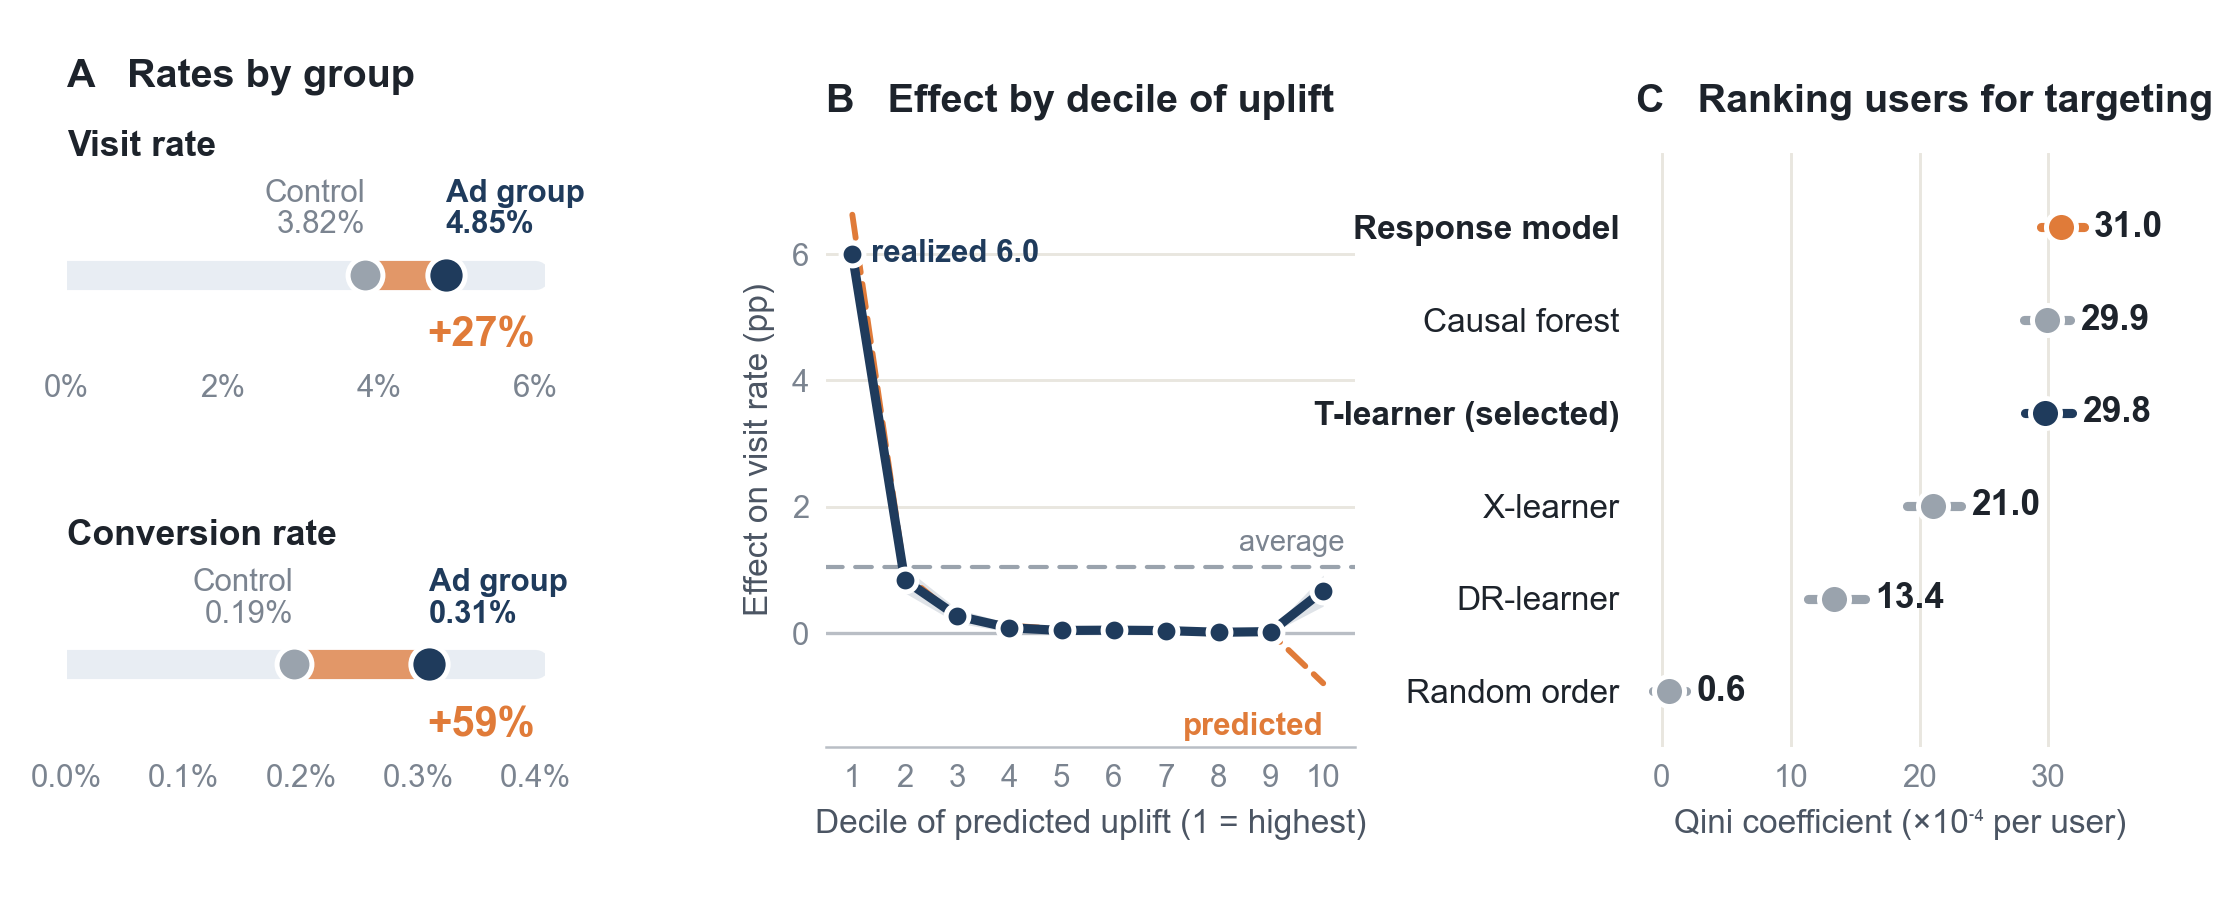
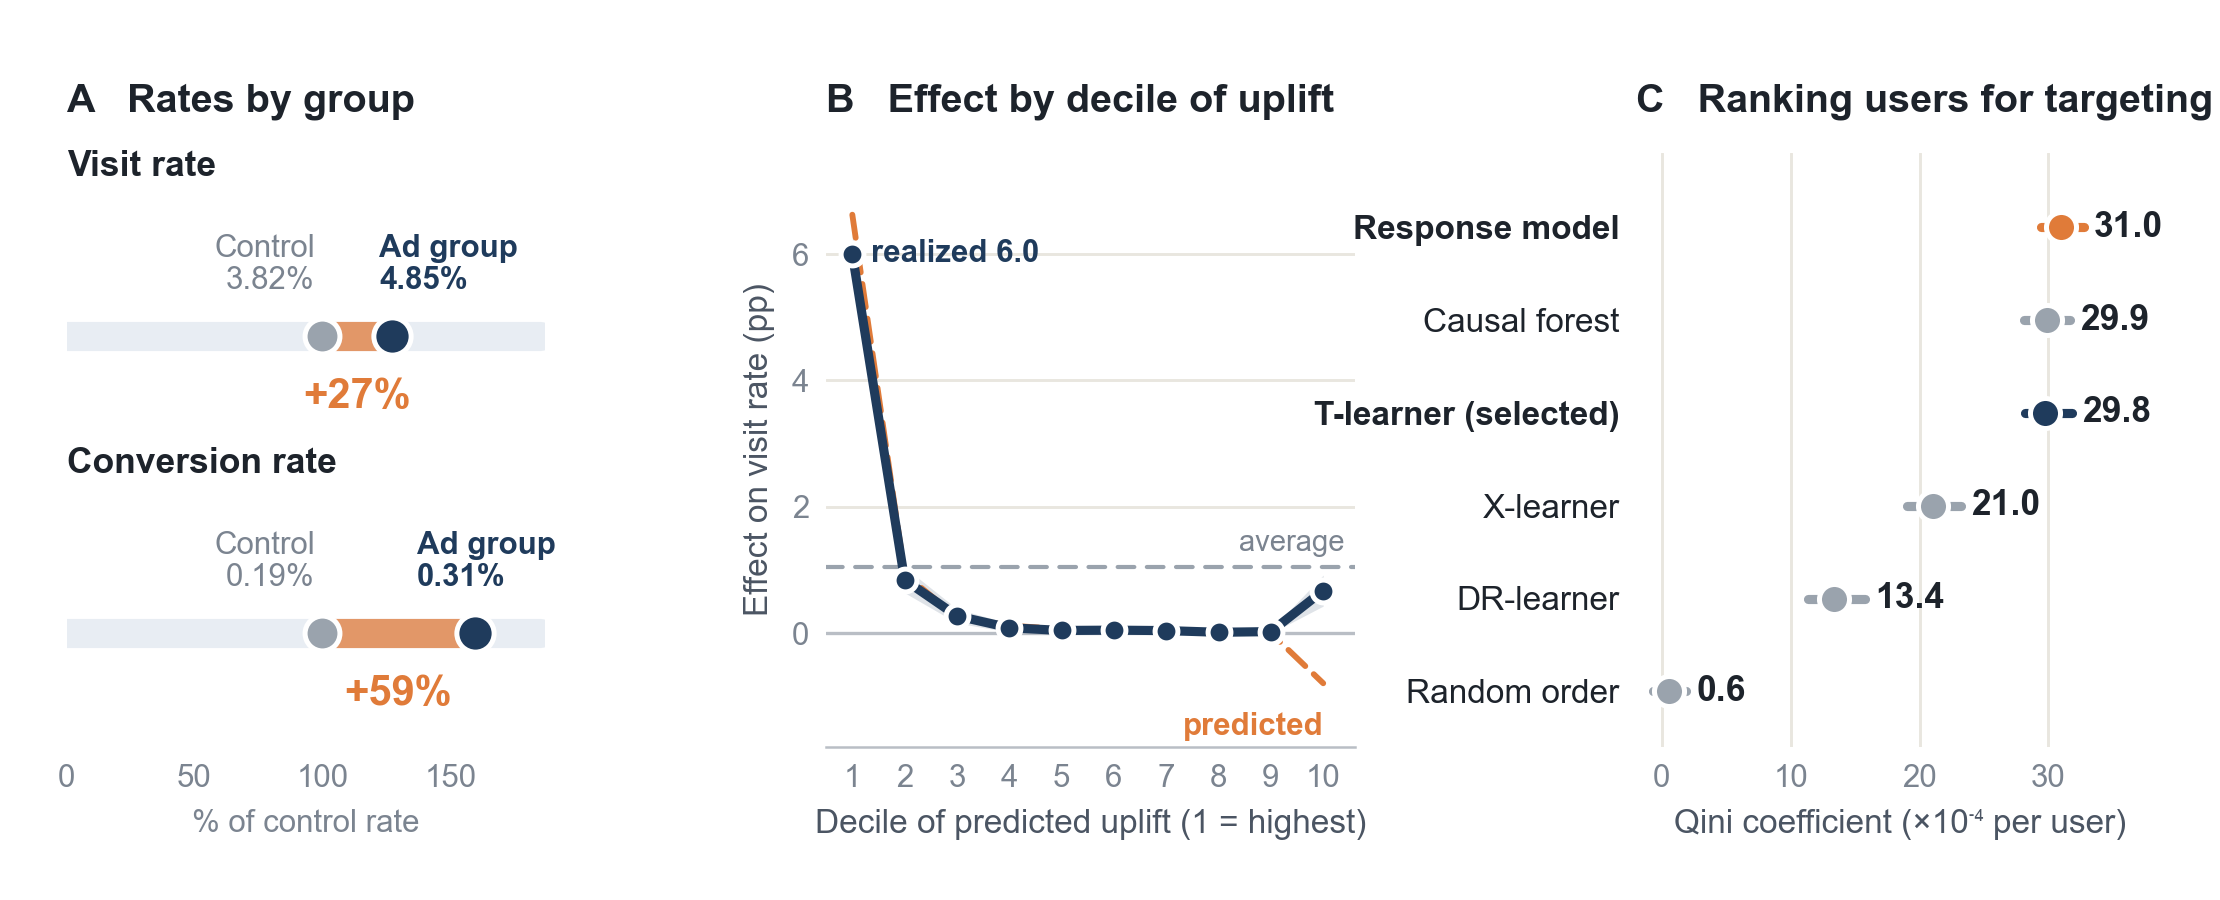
Put the rate and credit comparisons on one shared relative scale
- Rates by group: both rows on % of the control rate, so the 27% and 59% lifts compare by length
- Credited vs. caused: both rows on % of caused, so the 68% and 44% gaps compare by length
- Same change in the static figures (figure 1, 01a, 02a) and the interactive charts
- Panel C title names what is counted

diff --git a/docs/assets/explorer.js b/docs/assets/explorer.js
@@ -71,24 +71,26 @@ document.querySelectorAll("[data-count]").forEach(n => { const [v, d] = heroVals
   if (!document.getElementById("c-rates")) return;
   const host = $("#c-rates");
   function draw(animateIn) {
-    const w = W(host), rowsH = 86, h = 2 * rowsH + 10, L = Math.min(150, w * .28), R = w - 70;
-    const svg = svgIn(host, w, h);
+    // one shared index scale (control = 100) for both rows, so the two relative lifts compare by length
+    const w = W(host), nar = w < 480, rowsH = 74, h = 2 * rowsH + 50, L = Math.max(125, Math.min(150, w * .28)), R = w - 16, top = 185, x = lin(0, top, L, R), ticks = [0, 50, 100, 150];
+    const svg = svgIn(host, w, h), yA = 2 * rowsH + 4;
+    ticks.forEach(v => { el("line", { x1: x(v), x2: x(v), y1: 14, y2: yA - 6, class: "gridl" }, svg); txt(svg, x(v), yA + 10, String(v), { "text-anchor": "middle", class: "t-muted", "font-size": 11 }); });
+    txt(svg, (x(0) + x(150)) / 2, yA + 30, "% of control rate", { "text-anchor": "middle", class: "t-muted", "font-size": 11 });
     [["visit", "Visit rate"], ["conversion", "Conversion rate"]].forEach(([k, name], i) => {
-      const r = E[k], g = el("g", { transform: `translate(0,${i * rowsH})` }, svg), y = 40;
-      const ticks = k === "visit" ? [0, .01, .02, .03, .04, .05, .06] : [0, .001, .002, .003, .004], hi = ticks[ticks.length - 1], x = lin(0, hi, L, R);
+      const r = E[k], g = el("g", { transform: `translate(0,${i * rowsH})` }, svg), y = 40, i1 = 100 * r.ad_rate / r.control_rate;
       txt(g, 0, y - 6, name, { class: "t-strong" });
       txt(g, 0, y + 12, `+${fmt(100 * r.relative_lift)}% relative`, { class: "t-orange" });
       el("line", { x1: x(0), x2: R, y1: y, y2: y, class: "gridl", "stroke-width": 6, "stroke-linecap": "round" }, g);
-      ticks.forEach(v => { el("line", { x1: x(v), x2: x(v), y1: y + 8, y2: y + 13, class: "axis" }, g); txt(g, x(v), y + 27, (100 * v).toFixed(k === "visit" ? 0 : 1) + "%", { "text-anchor": "middle", class: "t-muted", "font-size": 11 }); });
-      const bar = el("line", { x1: x(r.control_rate), x2: x(r.control_rate), y1: y, y2: y, "stroke-width": 6, "stroke-linecap": "round", class: "s-orange", opacity: .55 }, g);
-      const c0 = el("circle", { cx: x(r.control_rate), cy: y, r: 7, class: "f-grey s-card", "stroke-width": 2 }, g);
-      const c1 = el("circle", { cx: x(r.control_rate), cy: y, r: 8, class: "f-navy s-card", "stroke-width": 2 }, g);
-      const l0 = txt(g, x(r.control_rate), y - 16, `Control ${(100 * r.control_rate).toFixed(2)}%`, { "text-anchor": "end", class: "t-muted" });
-      const l1 = txt(g, x(r.ad_rate) + 4, y - 16, `Ad group ${(100 * r.ad_rate).toFixed(2)}%`, { "text-anchor": "start", class: "t-navy", opacity: 0 });
-      const dl = txt(g, (x(r.control_rate) + x(r.ad_rate)) / 2, y + 4 - 18, `+${(100 * (r.ad_rate - r.control_rate)).toFixed(k === "visit" ? 2 : 3)} pp`, { "text-anchor": "middle", class: "t-orange", "font-size": 11, opacity: 0 });
-      hoverTip(c0, `Control group: ${(100 * r.control_rate).toFixed(2)}%`); hoverTip(c1, `Ad group: ${(100 * r.ad_rate).toFixed(2)}%`);
-      const go = () => animate([[c1, { cx: x(r.ad_rate) }], [bar, { x2: x(r.ad_rate) }], [l1, { opacity: 1 }], [dl, { opacity: 1 }]], 1100);
-      if (animateIn) whenVisible(host, () => setTimeout(go, 200 + 250 * i)); else { c1.setAttribute("cx", x(r.ad_rate)); bar.setAttribute("x2", x(r.ad_rate)); l1.setAttribute("opacity", 1); dl.setAttribute("opacity", 1); }
+      const bar = el("line", { x1: x(100), x2: x(100), y1: y, y2: y, "stroke-width": 6, "stroke-linecap": "round", class: "s-orange", opacity: .55 }, g);
+      const c0 = el("circle", { cx: x(100), cy: y, r: 7, class: "f-grey s-card", "stroke-width": 2 }, g);
+      const c1 = el("circle", { cx: x(100), cy: y, r: 8, class: "f-navy s-card", "stroke-width": 2 }, g);
+      const l0 = txt(g, x(100) - 4, y - 16, `Control ${(100 * r.control_rate).toFixed(2)}%`, { "text-anchor": "end", class: "t-muted" });
+      const l1 = txt(g, x(i1) + 4, y - 16, `${nar ? "Ad" : "Ad group"} ${(100 * r.ad_rate).toFixed(2)}%`, { "text-anchor": "start", class: "t-navy", opacity: 0 });
+      l1.setAttribute("x", Math.min(x(i1) + 4, w - 2 - l1.getComputedTextLength()));
+      const dl = txt(g, (x(100) + x(i1)) / 2, y + 22, `+${(100 * (r.ad_rate - r.control_rate)).toFixed(k === "visit" ? 2 : 3)} pp`, { "text-anchor": "middle", class: "t-orange", "font-size": 11, opacity: 0 });
+      hoverTip(c0, `Control group: ${(100 * r.control_rate).toFixed(2)}% (100% of control)`); hoverTip(c1, `Ad group: ${(100 * r.ad_rate).toFixed(2)}% (${fmt(i1)}% of control)`);
+      const go = () => animate([[c1, { cx: x(i1) }], [bar, { x2: x(i1) }], [l1, { opacity: 1 }], [dl, { opacity: 1 }]], 1100);
+      if (animateIn) whenVisible(host, () => setTimeout(go, 200 + 250 * i)); else { c1.setAttribute("cx", x(i1)); bar.setAttribute("x2", x(i1)); l1.setAttribute("opacity", 1); dl.setAttribute("opacity", 1); }
     });
   }
   draw(true); redrawers.push(() => draw(false));
@@ -170,7 +172,7 @@ document.querySelectorAll("[data-count]").forEach(n => { const [v, d] = heroVals
   const host = $("#c-gap"), hHost = $("#c-hundred"), lgH = $("#lg-hundred");
   let key = "conversion", parts = null;
   function build() {
-    const w = W(host), h = 190, L = 12, R = w - 16, y = 104, svg = svgIn(host, w, h);
+    const w = W(host), h = 206, L = 12, R = w - 16, y = 104, svg = svgIn(host, w, h);
     const g = el("g", {}, svg);
     parts = { svg, w, L, R, y, ticks: el("g", {}, svg),
       band: el("rect", { x: L, y: y - 9, width: 0, height: 18, rx: 9, class: "f-osoft" }, g),
@@ -188,11 +190,12 @@ document.querySelectorAll("[data-count]").forEach(n => { const [v, d] = heroVals
     set(key, 0);
   }
   function set(k, dur = 900) {
-    key = k; const r = E[k], p = parts, x = lin(0, r.credited * 1.12, p.L + 20, p.R);
+    // one index scale (caused = 100) for both outcomes, so switching keeps the axis and the gaps compare by length
+    key = k; const r = E[k], p = parts, x = lin(0, 185, p.L + 20, p.R), ia = 100 * r.credited / r.caused, ie = 100 * r.caused_ci / r.caused;
     p.ticks.innerHTML = "";
-    const step = (k === "conversion" ? 5000 : 50000) * (p.w < 480 ? 2 : 1);
-    for (let v = 0; v <= r.credited * 1.12; v += step) { el("line", { x1: x(v), x2: x(v), y1: 28, y2: p.y + 58, class: "gridl" }, p.ticks); txt(p.ticks, x(v), p.y + 74, fmt(v), { "text-anchor": "middle", class: "t-muted", "font-size": 11 }); }
-    const xc = x(r.caused), xa = x(r.credited), xl = x(r.caused - r.caused_ci), xh = x(r.caused + r.caused_ci), mid = (xc + xa) / 2;
+    [0, 50, 100, 150].forEach(v => { el("line", { x1: x(v), x2: x(v), y1: 28, y2: p.y + 58, class: "gridl" }, p.ticks); txt(p.ticks, x(v), p.y + 74, String(v), { "text-anchor": "middle", class: "t-muted", "font-size": 11 }); });
+    txt(p.ticks, (x(0) + x(150)) / 2, p.y + 92, "% of caused", { "text-anchor": "middle", class: "t-muted", "font-size": 11 });
+    const xc = x(100), xa = x(ia), xl = x(100 - ie), xh = x(100 + ie), mid = (xc + xa) / 2;
     const nar = p.w < 520, roomR = p.w - xa > (nar ? 70 : 135), xt = roomR ? xa - 10 : xa + 10;
     [p.lCred, p.lCred2].forEach(t => t.setAttribute("text-anchor", roomR ? "start" : "end"));
     animate([[p.band, { x: xc, width: xa - xc }], [p.ci, { x1: xl, x2: xh }], [p.ciA, { x1: xl, x2: xl }], [p.ciB, { x1: xh, x2: xh }],

diff --git a/docs/01.html b/docs/01.html
@@ -111,6 +111,6 @@
 </div></footer>
 <div id="tip" role="tooltip"></div>
 <script src="data.js"></script>
-<script src="assets/explorer.js"></script>
+<script src="assets/explorer.js?v=20261118c"></script>
 </body>
 </html>

diff --git a/docs/02.html b/docs/02.html
@@ -105,6 +105,6 @@
 </div></footer>
 <div id="tip" role="tooltip"></div>
 <script src="data.js"></script>
-<script src="assets/explorer.js"></script>
+<script src="assets/explorer.js?v=20261118c"></script>
 </body>
 </html>

diff --git a/docs/index.html b/docs/index.html
@@ -166,6 +166,6 @@
 </div></footer>
 <div id="tip" role="tooltip"></div>
 <script src="data.js"></script>
-<script src="assets/explorer.js"></script>
+<script src="assets/explorer.js?v=20261118c"></script>
 </body>
 </html>

diff --git a/docs/03.html b/docs/03.html
@@ -85,6 +85,6 @@
 </div></footer>
 <div id="tip" role="tooltip"></div>
 <script src="data.js"></script>
-<script src="assets/explorer.js"></script>
+<script src="assets/explorer.js?v=20261118c"></script>
 </body>
 </html>

diff --git a/docs/04.html b/docs/04.html
@@ -63,6 +63,6 @@
 </div></footer>
 <div id="tip" role="tooltip"></div>
 <script src="data.js"></script>
-<script src="assets/explorer.js"></script>
+<script src="assets/explorer.js?v=20261118c"></script>
 </body>
 </html>

diff --git a/figures/figstyle.py b/figures/figstyle.py
@@ -147,42 +147,44 @@ def segments():
 
 # ------------------------------------------------------------------ panels
 def p_rates(fig, spec, letter, title="Visit and conversion rates by group"):
-    """Two dumbbells, control to ad group, each on its own scale."""
-    E = experiment(); sub = spec.subgridspec(2, 1, hspace=0.9); axes = []
-    for j, (k, name, ticks, d) in enumerate((("visit", "Visit rate", [0, .02, .04, .06], 0), ("conversion", "Conversion rate", [0, .001, .002, .003, .004], 1))):
-        ax = fig.add_subplot(sub[j]); r = E[k]; axes.append(ax)
-        pill(ax, 0, ticks[-1], 0, PALE, lw=7, z=1, alpha=0.7)
-        pill(ax, r["p0"], r["p1"], 0, ORANGE, lw=7, z=2, alpha=0.75)
-        dot(ax, r["p0"], 0, GREY, s=70); dot(ax, r["p1"], 0, NAVY, s=80)
-        ax.text(r["p0"], 0.55, f"Control\n{100 * r['p0']:.2f}%", ha="right", va="bottom", fontsize=7.5, color=MUTED, linespacing=1.1)
-        ax.text(r["p1"], 0.55, f"Ad group\n{100 * r['p1']:.2f}%", ha="left", va="bottom", fontsize=7.5, color=NAVY, fontweight="bold", linespacing=1.1)
-        ax.text(ticks[-1], -0.95, f"+{100 * r['lift']:.0f}%", ha="right", va="center", fontsize=10, color=ORANGE, fontweight="bold")
-        ax.set_xlim(0, ticks[-1] * 1.02); ax.set_ylim(-1.3, 1.9); ax.set_yticks([])
-        ax.set_xticks(ticks, [f"{100 * t:.{d + 0}f}%" if d == 0 else f"{100 * t:.1f}%" for t in ticks]); ax.grid(False); clean(ax, x=False)
-        ax.text(0, 1.75, name, fontsize=8.5, fontweight="bold", color=INK, va="bottom")
-    axes[0].set_title(f"{letter}   {title}", loc="left", fontweight="bold", color=INK, pad=16)
-    return axes
+    """Two dumbbells, control to ad group, on one shared index scale (control = 100) so the two lifts compare by length."""
+    E = experiment(); ax = fig.add_subplot(spec); top = 185
+    for k, name, y in (("visit", "Visit rate", 3.0), ("conversion", "Conversion rate", 0.0)):
+        r = E[k]; i1 = 100 * r["p1"] / r["p0"]
+        pill(ax, 0, top, y, PALE, lw=7, z=1, alpha=0.7)
+        pill(ax, 100, i1, y, ORANGE, lw=7, z=2, alpha=0.75)
+        dot(ax, 100, y, GREY, s=70); dot(ax, i1, y, NAVY, s=80)
+        ax.text(97, y + 0.42, f"Control\n{100 * r['p0']:.2f}%", ha="right", va="bottom", fontsize=7.5, color=MUTED, linespacing=1.1)
+        ax.text(min(i1 - 5, top - 48), y + 0.42, f"Ad group\n{100 * r['p1']:.2f}%", ha="left", va="bottom", fontsize=7.5, color=NAVY, fontweight="bold", linespacing=1.1)
+        ax.text((100 + i1) / 2, y - 0.42, f"+{100 * r['lift']:.0f}%", ha="center", va="top", fontsize=10, color=ORANGE, fontweight="bold")
+        ax.text(0, y + 1.55, name, fontsize=8.5, fontweight="bold", color=INK, va="bottom")
+    ax.set_xlim(0, top * 1.01); ax.set_ylim(-1.15, 4.85); ax.set_yticks([])
+    ax.set_xticks([0, 50, 100, 150]); ax.grid(False); clean(ax, x=False)
+    ax.set_xlabel("% of control rate", fontsize=7.5, color=MUTED)
+    ax.set_title(f"{letter}   {title}", loc="left", fontweight="bold", color=INK, pad=10)
+    return [ax]
 
 
 def p_gap(fig, spec, letter, title="Credited by the count, and caused by the ads"):
-    """For conversions and visits: the experiment's estimate against the count, on one line each."""
-    E = experiment(); sub = spec.subgridspec(2, 1, hspace=0.9); axes = []
-    for j, (k, name, step) in enumerate((("conversion", "Conversions", 5000), ("visit", "Visits", 50000))):
-        ax = fig.add_subplot(sub[j]); r = E[k]; axes.append(ax); top = r["credited"] * 1.18
-        pill(ax, r["caused"], r["credited"], 0, OSOFT, lw=11, z=1)
-        ax.plot([r["caused"] - r["ci"], r["caused"] + r["ci"]], [0, 0], color=NAVY, lw=1.6, zorder=3)
-        for e in (r["caused"] - r["ci"], r["caused"] + r["ci"]):
-            ax.plot([e, e], [-0.22, 0.22], color=NAVY, lw=1.4, zorder=3)
-        dot(ax, r["caused"], 0, NAVY, s=80, z=5); dot(ax, r["credited"], 0, ORANGE, s=95, z=5, marker="D")
-        ax.text(r["caused"], -0.62, f"{fmt(r['caused'])}\ncaused", ha="center", va="top", fontsize=7.5, color=NAVY, fontweight="bold", linespacing=1.1)
-        ax.text(r["credited"], -0.62, f"{fmt(r['credited'])}\ncredited", ha="center", va="top", fontsize=7.5, color=ORANGE, fontweight="bold", linespacing=1.1)
-        ax.text((r["caused"] + r["credited"]) / 2, 0.5, f"+{fmt(r['credited'] - r['caused'])}  ({100 * (r['ratio'] - 1):.0f}% more)", ha="center", va="bottom",
+    """For conversions and visits: the count against the experiment's estimate, on one shared index scale (caused = 100)."""
+    E = experiment(); ax = fig.add_subplot(spec); top = 185
+    for k, name, y in (("conversion", "Conversions", 3.0), ("visit", "Visits", 0.0)):
+        r = E[k]; ia = 100 * r["credited"] / r["caused"]; e = 100 * r["ci"] / r["caused"]
+        pill(ax, 100, ia, y, OSOFT, lw=11, z=1)
+        ax.plot([100 - e, 100 + e], [y, y], color=NAVY, lw=1.6, zorder=3)
+        for v in (100 - e, 100 + e):
+            ax.plot([v, v], [y - 0.2, y + 0.2], color=NAVY, lw=1.4, zorder=3)
+        dot(ax, 100, y, NAVY, s=80, z=5); dot(ax, ia, y, ORANGE, s=95, z=5, marker="D")
+        ax.text(100, y - 0.45, f"{fmt(r['caused'])}\ncaused", ha="center", va="top", fontsize=7.5, color=NAVY, fontweight="bold", linespacing=1.1)
+        ax.text(ia, y - 0.45, f"{fmt(r['credited'])}\ncredited", ha="center", va="top", fontsize=7.5, color=ORANGE, fontweight="bold", linespacing=1.1)
+        ax.text((100 + ia) / 2, y + 0.42, f"+{fmt(r['credited'] - r['caused'])}  ({100 * (r['ratio'] - 1):.0f}% more)", ha="center", va="bottom",
                 fontsize=8, color=INK, fontweight="bold")
-        ax.set_xlim(0, top); ax.set_ylim(-1.9, 1.5); ax.set_yticks([])
-        ax.set_xticks([t for t in range(0, int(top), step)], [fmt(t) for t in range(0, int(top), step)]); ax.grid(axis="x", color=GRID); clean(ax, x=False)
-        ax.text(0, 1.35, name, fontsize=8.5, fontweight="bold", color=INK, va="bottom")
-    axes[0].set_title(f"{letter}   {title}", loc="left", fontweight="bold", color=INK, pad=16)
-    return axes
+        ax.text(0, y + 1.0, name, fontsize=8.5, fontweight="bold", color=INK, va="bottom")
+    ax.set_xlim(0, top * 1.01); ax.set_ylim(-1.75, 4.4); ax.set_yticks([])
+    ax.set_xticks([0, 50, 100, 150]); ax.grid(axis="x", color=GRID); ax.set_axisbelow(True); clean(ax, x=False)
+    ax.set_xlabel("% of caused", fontsize=7.5, color=MUTED)
+    ax.set_title(f"{letter}   {title}", loc="left", fontweight="bold", color=INK, pad=10)
+    return [ax]
 
 
 def p_hundred(ax, letter, key="conversion", title=None):

diff --git a/figures/make_figures.py b/figures/make_figures.py
@@ -17,7 +17,7 @@ def figure1():
     gs = fig.add_gridspec(1, 3, width_ratios=[1.0, 1.15, 0.78], wspace=0.3, left=0.03, right=0.975, top=0.83, bottom=0.12)
     p_rates(fig, gs[0], "A", "Rates by group")
     p_gap(fig, gs[1], "B", "Credited by the count vs. caused")
-    p_hundred(fig.add_subplot(gs[2]), "C")
+    p_hundred(fig.add_subplot(gs[2]), "C", title="Of 100 conversions\n      credited by the count")
     save(fig, "figures/figure1.png")
 
 
